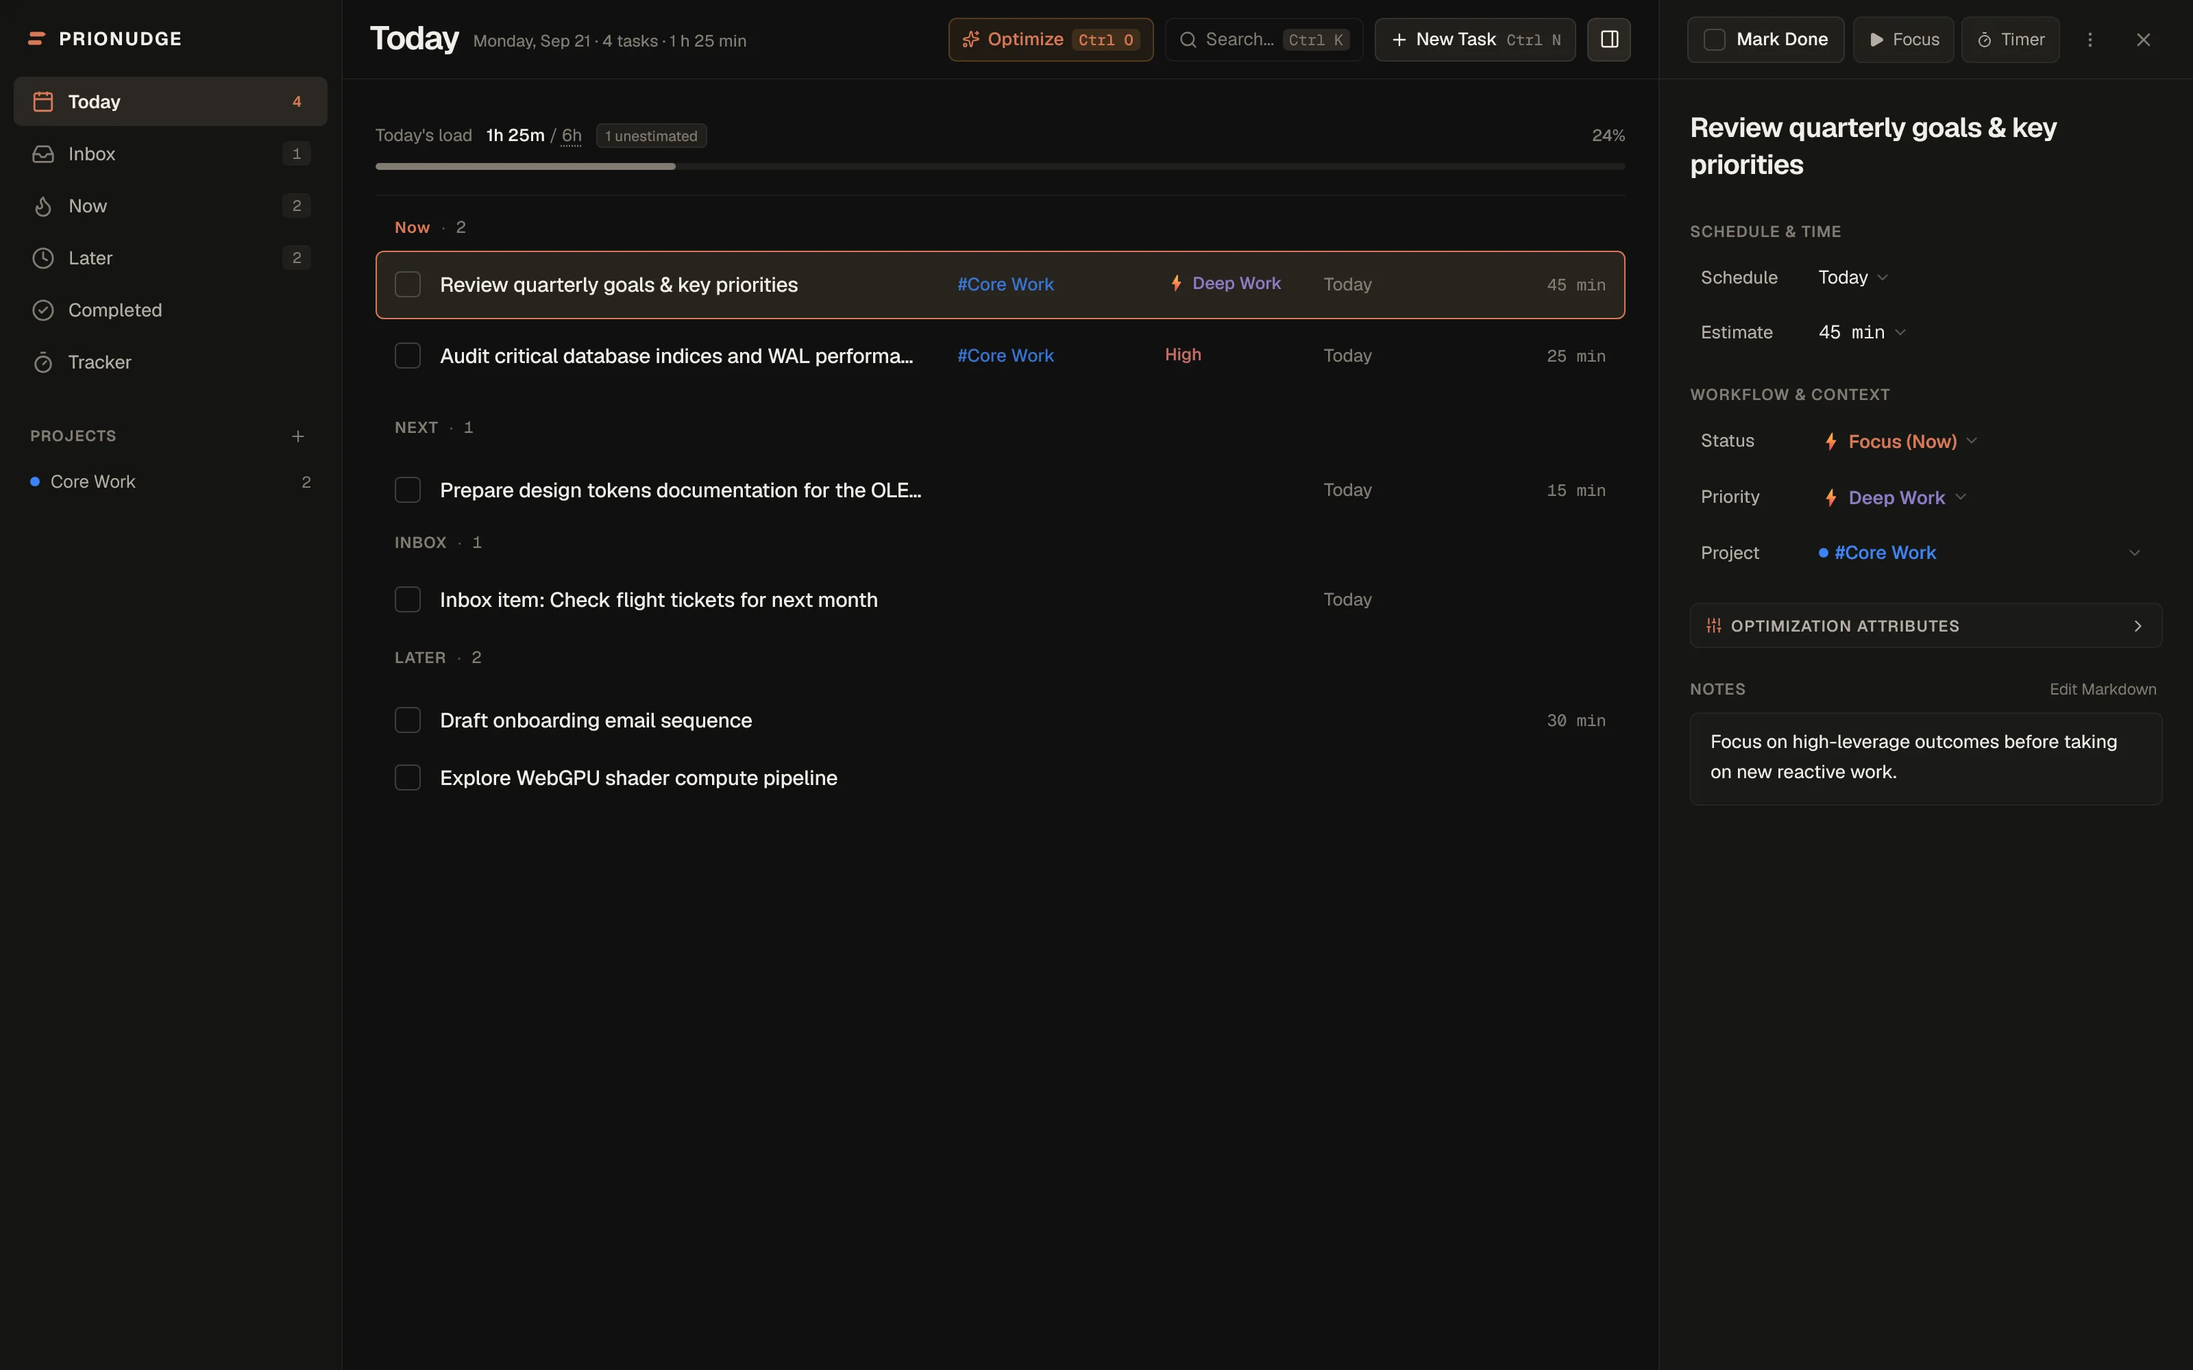
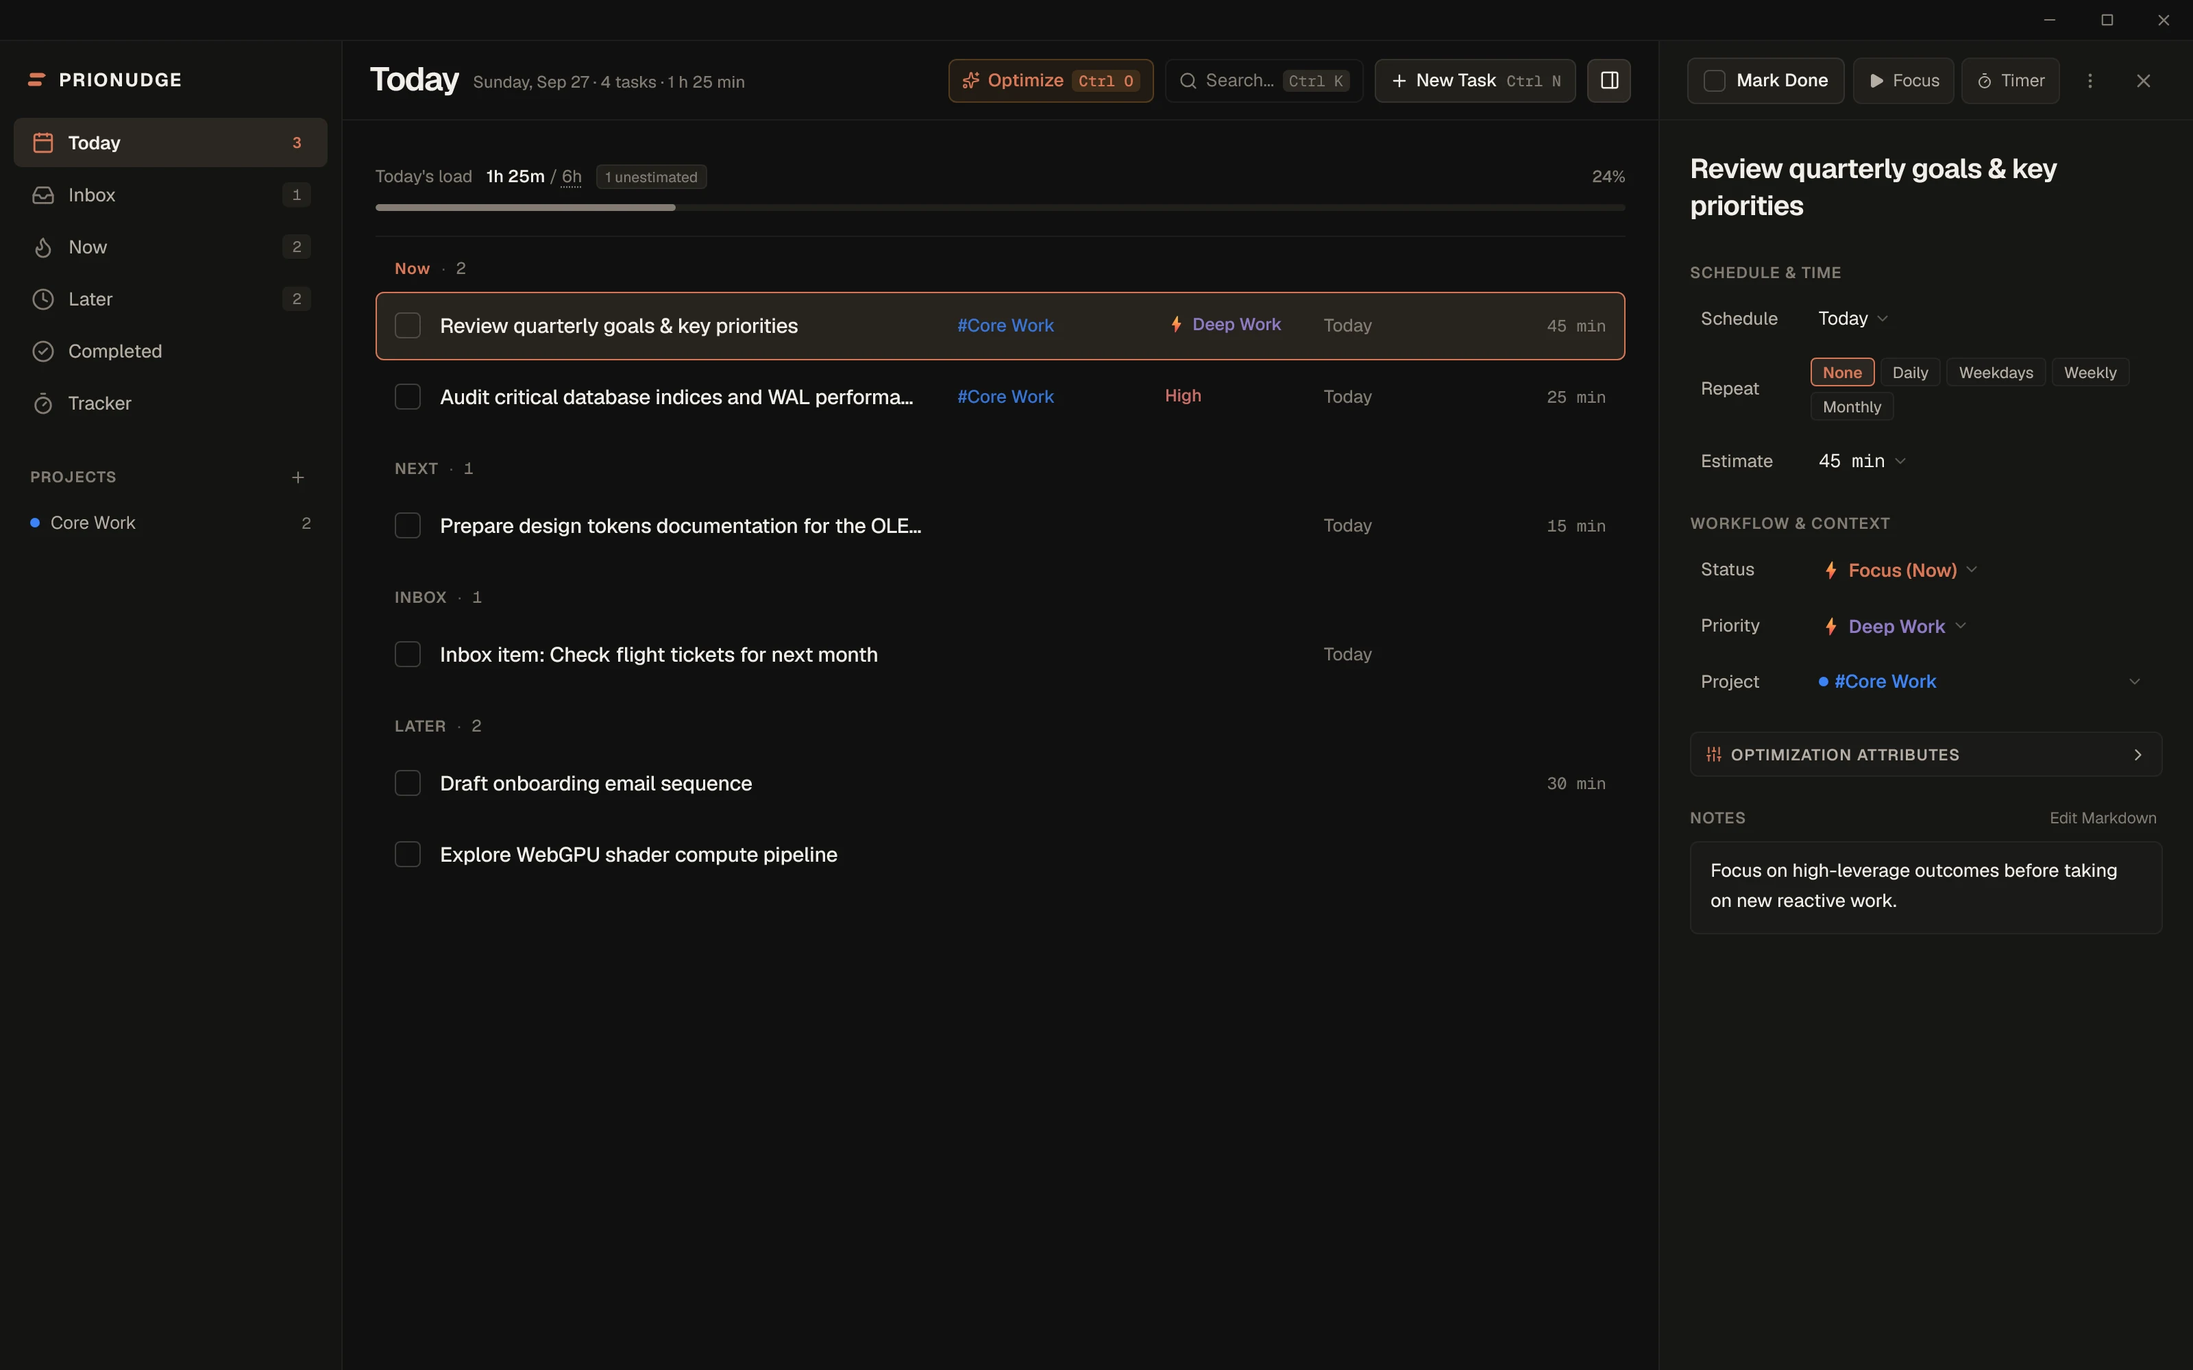
feat: refresh site for current PrioNudge (v0.1.14)

diff --git a/index.html b/index.html
@@ -37,11 +37,11 @@
   "@type": "SoftwareApplication",
   "name": "PrioNudge",
   "applicationCategory": "ProductivityApplication",
-  "operatingSystem": "Windows",
-  "softwareVersion": "0.1.12",
-  "description": "A focused, local-first Windows task manager built to reduce the friction of deciding what deserves your attention next.",
+  "operatingSystem": "Windows 10, Windows 11",
+  "softwareVersion": "0.1.14",
+  "description": "A focused, local-first Windows task manager and activity tracker built to reduce the friction of deciding what deserves your attention next.",
   "url": "https://prionudge.ezzulddin.com/",
-  "downloadUrl": "https://github.com/IzzaldinSamir/prionudge-releases/releases/latest/download/PrioNudge_0.1.12_x64-setup.exe",
+  "downloadUrl": "https://github.com/IzzaldinSamir/prionudge-releases/releases/download/v0.1.14/PrioNudge_0.1.14_x64-setup.exe",
   "author": {
     "@type": "Person",
     "name": "Izzaldin Samir",
@@ -68,7 +68,7 @@
     </a>
     <nav class="nav__links" aria-label="Primary">
       <a class="nav__link" href="https://github.com/IzzaldinSamir/prionudge-releases" target="_blank" rel="noopener">GitHub</a>
-      <a class="btn btn--primary btn--sm" href="https://github.com/IzzaldinSamir/prionudge-releases/releases/download/v0.1.12/PrioNudge_0.1.12_x64-setup.exe" data-dl="exe">Download</a>
+      <a class="btn btn--primary btn--sm" href="https://github.com/IzzaldinSamir/prionudge-releases/releases/download/v0.1.14/PrioNudge_0.1.14_x64-setup.exe" data-dl="exe">Download</a>
     </nav>
   </div>
 </header>
@@ -94,7 +94,7 @@
       </p>
 
       <div class="hero__actions" data-reveal>
-        <a class="btn btn--primary btn--lg" href="https://github.com/IzzaldinSamir/prionudge-releases/releases/download/v0.1.12/PrioNudge_0.1.12_x64-setup.exe" data-dl="exe">
+        <a class="btn btn--primary btn--lg" href="https://github.com/IzzaldinSamir/prionudge-releases/releases/download/v0.1.14/PrioNudge_0.1.14_x64-setup.exe" data-dl="exe">
           <svg class="btn__icon" viewBox="0 0 24 24" aria-hidden="true" focusable="false"><path d="M3 5.5 10.2 4.4v6.9H3zM11.4 4.2 21 3v8.3h-9.6zM3 12.7h7.2v6.9L3 18.5zM11.4 12.7H21V21l-9.6-1.4z"/></svg>
           Download for Windows
         </a>
@@ -105,11 +105,11 @@
       </div>
 
       <p class="hero__note" data-reveal>
-        <span class="ver"><span data-version>v0.1.12</span> <span class="hero__release-tag">· Recurring tasks</span></span>
+        <span class="ver"><span data-version>v0.1.14</span> <span class="hero__release-tag">· Activity tracker</span></span>
         <span aria-hidden="true">·</span> Free download
         <span aria-hidden="true">·</span> Local-first
         <span aria-hidden="true">·</span> No account required
-        <span class="hero__msi"><span aria-hidden="true">·</span> <a href="https://github.com/IzzaldinSamir/prionudge-releases/releases/download/v0.1.12/PrioNudge_0.1.12_x64_en-US.msi" data-dl="msi">MSI installer</a></span>
+        <span class="hero__msi"><span aria-hidden="true">·</span> <a href="https://github.com/IzzaldinSamir/prionudge-releases/releases/download/v0.1.14/PrioNudge_0.1.14_x64_en-US.msi" data-dl="msi">MSI installer</a></span>
       </p>
     </div>
 
@@ -121,13 +121,13 @@
           <img
             src="assets/img/hero-today.webp"
             width="3200" height="2000"
-            alt="The PrioNudge Today view. The Now section holds two prioritised tasks — one marked Deep Work, one marked High priority — with Next, Inbox and Later sections below, and a task inspector open on the right."
+            alt="The PrioNudge desktop app Today view with custom window titlebar. The Now section holds two prioritized tasks — one marked Deep Work, one marked High priority — with Next, Inbox and Later sections below, and the task inspector open on the right showing recurrence schedule options and task attributes."
             fetchpriority="high" decoding="async">
           <span class="shot__sheen" aria-hidden="true"></span>
           <span class="shot__cursor-glow" aria-hidden="true"></span>
         </div>
         <figcaption class="shot__caption">
-          Today view — Now, Next, Inbox and Later stay separate states, so everything doesn&rsquo;t read as equally urgent.
+          Today view — Now, Next, Inbox and Later stay separate states with custom Windows window controls and instant task inspector.
         </figcaption>
       </figure>
     </div>
@@ -268,8 +268,34 @@
         </figure>
       </article>
 
+      <!-- Activity Tracker -->
+      <article class="feature feature--tracker feature--reverse" data-reveal>
+        <div class="feature__copy">
+          <div class="feature__kicker">Activity Tracker</div>
+          <h3>Tasks tell you what you planned.<br>Tracker shows what you spent time on.</h3>
+          <p>A lightweight companion to your task list. Start one-click stopwatches for saved recurring activities or record ad-hoc sessions as you work. Daily targets and a rolling 7-day overview keep your actual hours honest without turning into an administrative chore.</p>
+          <ul class="feature__list">
+            <li>Saved reusable activities with daily target goals and target-met indicators</li>
+            <li>One-click timers, quick start popup (<kbd>Ctrl</kbd>+<kbd>Shift</kbd>+<kbd>T</kbd>), and manual session editing</li>
+            <li>Chronological History log with elapsed durations and ad-hoc session labeling</li>
+            <li>Custom day rollover so late-night sessions count toward the previous day&rsquo;s goals</li>
+          </ul>
+        </div>
+        <figure class="feature__media">
+          <div class="feature__frame feature__frame--tracker">
+            <img src="assets/img/detail-tracker.webp" width="2280" height="1568" loading="lazy" decoding="async"
+              alt="The PrioNudge Activity Tracker showing the summary strip (Tracked today, Targets met, Target time left, Last 7 days), saved activities with progress bars and target-met badges, and the session history panel.">
+            <span class="feature__callout" aria-hidden="true">
+              <span class="feature__callout-dot"></span>
+              <span>Planned vs. actual time</span>
+            </span>
+          </div>
+          <figcaption class="feature__caption">Contained desktop workspace with independent scrolling for activities and session history.</figcaption>
+        </figure>
+      </article>
+
       <!-- Recurring Tasks -->
-      <article class="feature feature--recurring feature--reverse" data-reveal>
+      <article class="feature feature--recurring" data-reveal>
         <div class="feature__copy">
           <div class="feature__kicker" id="recurring-title">Recurring tasks</div>
           <h3>Set it once. It comes back when it should.</h3>
@@ -343,15 +369,15 @@
     </div>
   </section>
 
-  <!-- ======================= NATIVE WINDOWS / LOCAL-FIRST ======================= -->
+  <!-- ======================= WINDOWS DESKTOP / LOCAL-FIRST ======================= -->
   <section class="section section--tech" aria-labelledby="tech-title">
     <div class="container">
       <div class="section__head" data-reveal>
         <div>
           <p class="section__eyebrow">Built for Windows</p>
-          <h2 class="section__title" id="tech-title">A real native app,<br><span class="dim">not a browser tab.</span></h2>
+          <h2 class="section__title" id="tech-title">A dedicated desktop app,<br><span class="dim">not another browser tab.</span></h2>
         </div>
-        <p class="section__lead">PrioNudge installs like any other Windows program and runs in its own window. Nothing to keep open in a tab, nothing to sign into, nothing leaving your machine.</p>
+        <p class="section__lead">PrioNudge installs directly on Windows with a lightweight desktop shell and custom window controls. Your productivity data stays on your machine in local SQLite storage — no accounts required, and zero cloud task syncing.</p>
       </div>
 
       <div class="bento" data-reveal>
@@ -359,16 +385,16 @@
           <span class="bento__icon" aria-hidden="true">
             <svg viewBox="0 0 24 24"><path d="M12 2C9.243 2 7 4.243 7 7v3H6a2 2 0 0 0-2 2v8a2 2 0 0 0 2 2h12a2 2 0 0 0 2-2v-8a2 2 0 0 0-2-2h-1V7c0-2.757-2.243-5-5-5zm0 2c1.654 0 3 1.346 3 3v3H9V7c0-1.654 1.346-3 3-3z"/></svg>
           </span>
-          <h3>Local-first</h3>
-          <p>Your tasks live in a local SQLite database on your machine. No account, no sync service, no server.</p>
+          <h3>Local-first SQLite</h3>
+          <p>Your tasks and tracker history live in a local SQLite database on your device. Your productivity data stays local — network requests are only used for release lookups and signature-verified update checks.</p>
         </article>
 
         <article class="bento__card">
           <span class="bento__icon" aria-hidden="true">
             <svg viewBox="0 0 24 24"><path d="M12 2a10 10 0 1 0 10 10A10 10 0 0 0 12 2zm0 18a8 8 0 1 1 8-8 8 8 0 0 1-8 8zm-1-13h2v6h-2zm0 8h2v2h-2z"/></svg>
           </span>
-          <h3>Automatic updates</h3>
-          <p>New versions download and install themselves after the update signature is verified.</p>
+          <h3>Signed updates</h3>
+          <p>New releases download and install safely only after the update payload passes Tauri minisign cryptographic verification.</p>
         </article>
 
         <article class="bento__card">
@@ -376,15 +402,15 @@
             <svg viewBox="0 0 24 24"><path d="M4 6h16v2H4zm0 5h16v2H4zm0 5h10v2H4z"/></svg>
           </span>
           <h3>Keyboard-first</h3>
-          <p><kbd>Ctrl</kbd>+<kbd>K</kbd> for commands, <kbd>Ctrl</kbd>+<kbd>N</kbd> to capture, <kbd>J</kbd>/<kbd>K</kbd> to move, <kbd>1</kbd>/<kbd>2</kbd>/<kbd>3</kbd> to reprioritise.</p>
+          <p><kbd>Ctrl</kbd>+<kbd>K</kbd> for commands, <kbd>Ctrl</kbd>+<kbd>N</kbd> or <kbd>Ctrl</kbd>+<kbd>Alt</kbd>+<kbd>Space</kbd> for capture, <kbd>J</kbd>/<kbd>K</kbd> to move, <kbd>1</kbd>/<kbd>2</kbd>/<kbd>3</kbd> to prioritize.</p>
         </article>
 
         <article class="bento__card bento__card--wide">
           <span class="bento__icon" aria-hidden="true">
             <svg viewBox="0 0 24 24"><path d="M4 16h16v2H4zm0-6h10v2H4zm0-6h16v2H4z"/></svg>
           </span>
-          <h3>Tray integration</h3>
-          <p>Control focus sessions, track progress, and trigger Quick Capture directly from the system tray.</p>
+          <h3>Windows desktop shell</h3>
+          <p>Custom titlebar with native-feeling window controls, system tray integration, and global shortcuts built specifically for Windows.</p>
         </article>
 
         <article class="bento__card bento__card--wide">
@@ -392,7 +418,7 @@
             <svg viewBox="0 0 24 24"><path d="M12 22c1.1 0 2-.9 2-2h-4c0 1.1.9 2 2 2zm6-6v-5c0-3.07-1.63-5.64-4.5-6.32V4c0-.83-.67-1.5-1.5-1.5S10.5 3.17 10.5 4v.68C7.64 5.36 6 7.92 6 11v5l-2 2v1h16v-1l-2-2zm-2 1H8v-6c0-2.48 1.51-4.5 4-4.5s4 2.02 4 4.5v6z"/></svg>
           </span>
           <h3>Native reminders</h3>
-          <p>Timed tasks can nudge you with native Windows notifications, even while PrioNudge is minimized or sitting in the tray.</p>
+          <p>Timed tasks can nudge you with Windows system notifications, even while PrioNudge is minimized or running in the tray.</p>
         </article>
       </div>
     </div>
@@ -407,14 +433,14 @@
     <div class="container cta__inner">
       <h2 class="cta__title" id="cta-title" data-reveal>Spend less time deciding.<br><span class="grad">Start with PrioNudge.</span></h2>
       <div class="hero__actions hero__actions--center" data-reveal>
-        <a class="btn btn--primary btn--lg" href="https://github.com/IzzaldinSamir/prionudge-releases/releases/download/v0.1.12/PrioNudge_0.1.12_x64-setup.exe" data-dl="exe">
+        <a class="btn btn--primary btn--lg" href="https://github.com/IzzaldinSamir/prionudge-releases/releases/download/v0.1.14/PrioNudge_0.1.14_x64-setup.exe" data-dl="exe">
           <svg class="btn__icon" viewBox="0 0 24 24" aria-hidden="true" focusable="false"><path d="M3 5.5 10.2 4.4v6.9H3zM11.4 4.2 21 3v8.3h-9.6zM3 12.7h7.2v6.9L3 18.5zM11.4 12.7H21V21l-9.6-1.4z"/></svg>
           Download for Windows
         </a>
         <a class="btn btn--ghost btn--lg" href="https://github.com/IzzaldinSamir/prionudge-releases" target="_blank" rel="noopener">GitHub</a>
       </div>
       <p class="hero__note hero__note--center" data-reveal>
-        <span class="ver" data-version>v0.1.12</span>
+        <span class="ver" data-version>v0.1.14</span>
         <span aria-hidden="true">·</span> Windows 10 &amp; 11
         <span aria-hidden="true">·</span> Free download
         <span aria-hidden="true">·</span> <a href="https://github.com/IzzaldinSamir/prionudge-releases/releases/latest" target="_blank" rel="noopener">All releases</a>
@@ -445,10 +471,10 @@
 
 <!-- Sticky mobile CTA -->
 <aside class="sticky-cta" id="sticky-cta" aria-label="Download PrioNudge" hidden>
-  <a class="sticky-cta__btn" href="https://github.com/IzzaldinSamir/prionudge-releases/releases/download/v0.1.12/PrioNudge_0.1.12_x64-setup.exe" data-dl="exe">
+  <a class="sticky-cta__btn" href="https://github.com/IzzaldinSamir/prionudge-releases/releases/download/v0.1.14/PrioNudge_0.1.14_x64-setup.exe" data-dl="exe">
     <svg class="sticky-cta__icon" viewBox="0 0 24 24" aria-hidden="true" focusable="false"><path d="M3 5.5 10.2 4.4v6.9H3zM11.4 4.2 21 3v8.3h-9.6zM3 12.7h7.2v6.9L3 18.5zM11.4 12.7H21V21l-9.6-1.4z"/></svg>
     <span>Download PrioNudge</span>
-    <span class="ver" data-version>v0.1.12</span>
+    <span class="ver" data-version>v0.1.14</span>
   </a>
 </aside>
 

diff --git a/script.js b/script.js
@@ -8,7 +8,7 @@
 
   var RELEASES_REPO = "https://github.com/IzzaldinSamir/prionudge-releases";
   var LATEST_API = "https://api.github.com/repos/IzzaldinSamir/prionudge-releases/releases/latest";
-  var FALLBACK_VERSION = "0.1.12";
+  var FALLBACK_VERSION = "0.1.14";
 
   var reduceMotion = window.matchMedia("(prefers-reduced-motion: reduce)").matches;
   var finePointer = window.matchMedia("(pointer: fine)").matches;
@@ -173,7 +173,7 @@
 
   /* ---------------------------------------------------------
      5. Resolve the latest release so the download links keep
-        working after v0.1.12. Falls back to the pinned URLs.
+        working after v0.1.14. Falls back to the pinned URLs.
      --------------------------------------------------------- */
   function setDownload(kind, url) {
     if (!url) return;
@@ -221,7 +221,7 @@
         setVersion((release.tag_name || "").replace(/^v/i, "") || FALLBACK_VERSION);
       })
       .catch(function () {
-        /* Offline, rate-limited or blocked: the pinned v0.1.12 URLs stand. */
+        /* Offline, rate-limited or blocked: the pinned v0.1.14 URLs stand. */
       })
       .then(function () { window.clearTimeout(timer); });
   }

diff --git a/README.md b/README.md
@@ -19,6 +19,7 @@ assets/
     geist-variable.woff2
   img/
     hero-today.webp     the main app screenshot (Today view)
+    detail-tracker.webp activity tracker with targets & history
     detail-optimize.webp
     detail-capture.webp
     detail-focus.webp
@@ -54,7 +55,7 @@ After deploying, update the placeholder domain in `index.html`:
 
 ## Download links
 
-The buttons ship with pinned `v0.1.12` asset URLs so they work with JavaScript
+The buttons ship with pinned `v0.1.14` asset URLs so they work with JavaScript
 disabled. On load, `script.js` asks the GitHub API for the latest release in
 `IzzaldinSamir/prionudge-releases`, finds the asset ending in `_x64-setup.exe`
 and the matching `.msi`, and rewrites the links and the on-page version label.
@@ -67,7 +68,7 @@ release is published.
 
 To change the version advertised as the fallback, update these places:
 
-- `index.html` — every `data-dl="exe"` / `data-dl="msi"` href, and the two
+- `index.html` — every `data-dl="exe"` / `data-dl="msi"` href, and the
   `<span data-version>` elements
 - `index.html` — `softwareVersion` in the JSON-LD block
 - `script.js` — `FALLBACK_VERSION`
